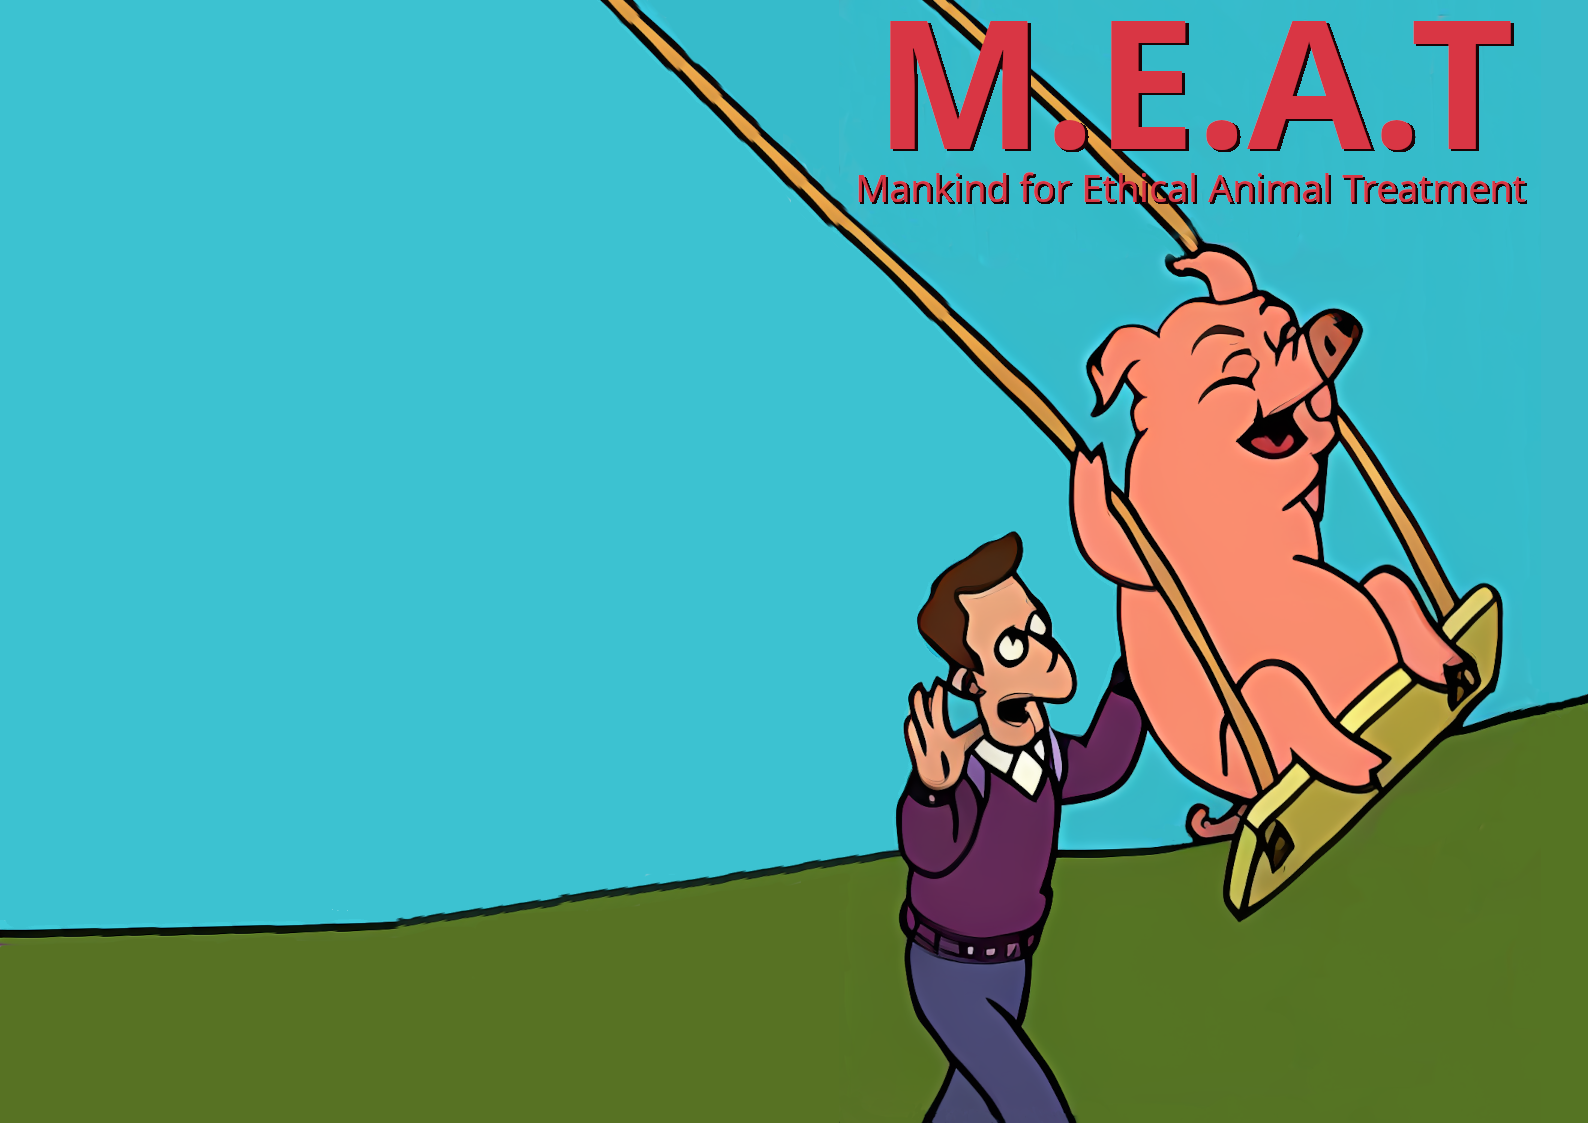
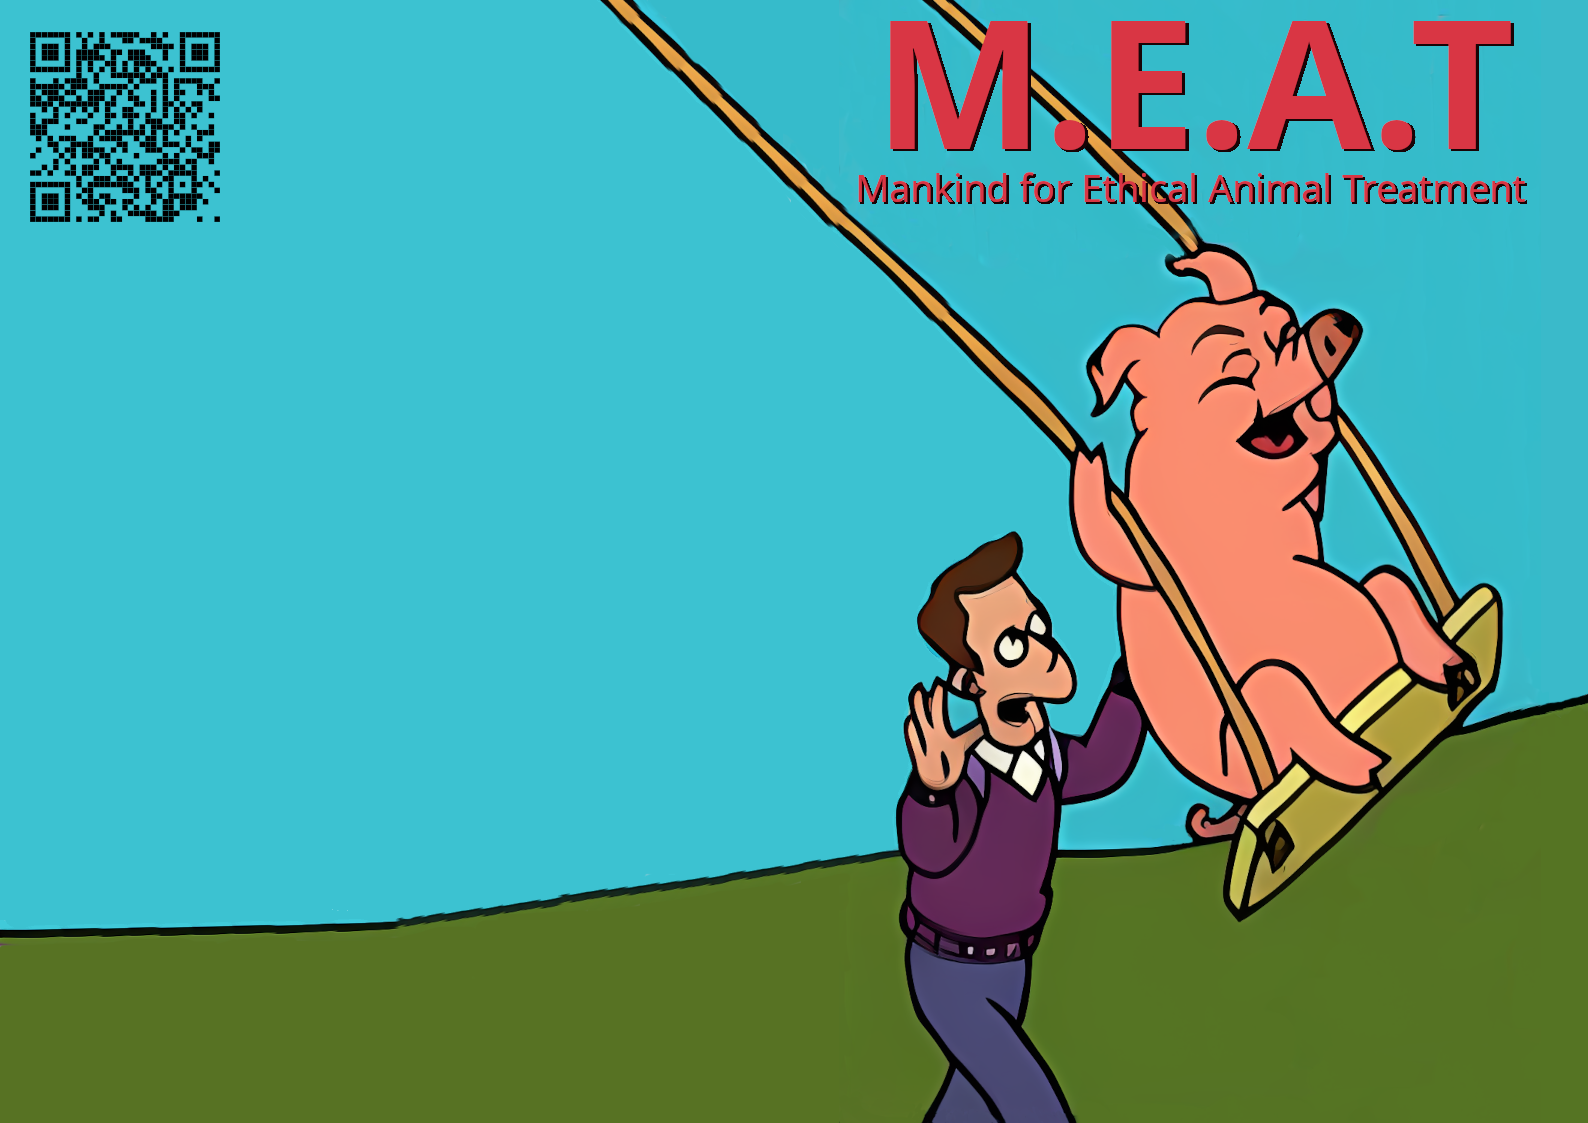
Add QR code

Changed region(s): [[0.0, 0.0312, 0.1543, 0.2182]]

diff --git a/README.md b/README.md
@@ -8,6 +8,7 @@ This design is intended to be printed on A3 paper and used as a cover for a fake
 
 ## Design method
 
+* QR Code (containing the URL to this repository) generated with [Python qrcode package]([AA](https://pypi.org/project/qrcode/)): `qr --factory=svg 'https://github.com/PhilboBaggins/meat-magazine-cover' > grcode.svg`
 * `1-Capture.png` was captured from the video
 * `1-Capture.png` was then cropped to create `2-Cropped.png`
 * `2-Cropped.png` was then opened in [Gimp](https://www.gimp.org/) and the perspective was fixed to create `3-PerspectiveFixed.png`
@@ -18,5 +19,6 @@ This design is intended to be printed on A3 paper and used as a cover for a fake
     * Resize to landscape A3 and fill in blanks with clone and spill pain tools
     * Add the "M.E.A.T." text
     * Add the "Mankind for Ethical Animal Treatment" text (not in the original, but I think we need to add it because people won't know what "M.E.A.T." means without the show to tell them)
+    * Add QR code
     * Saved as `MEAT.xcf`
     * Exported to `MEAT.png`
